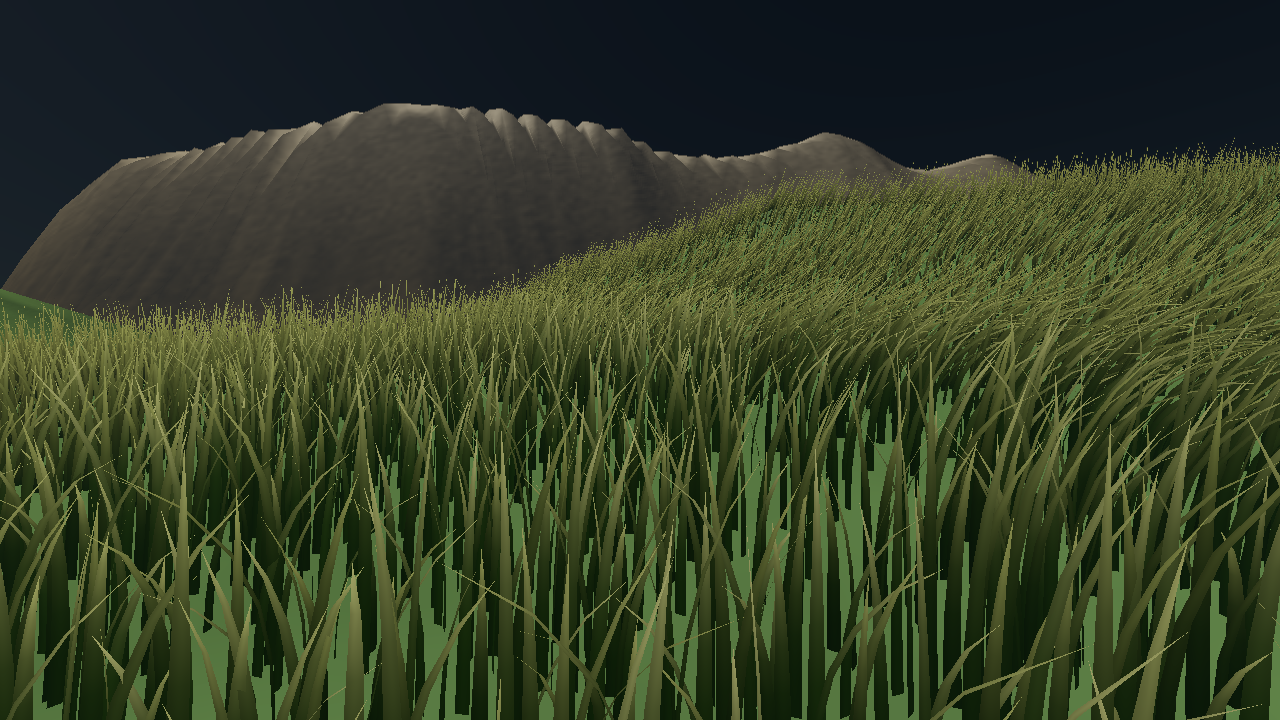
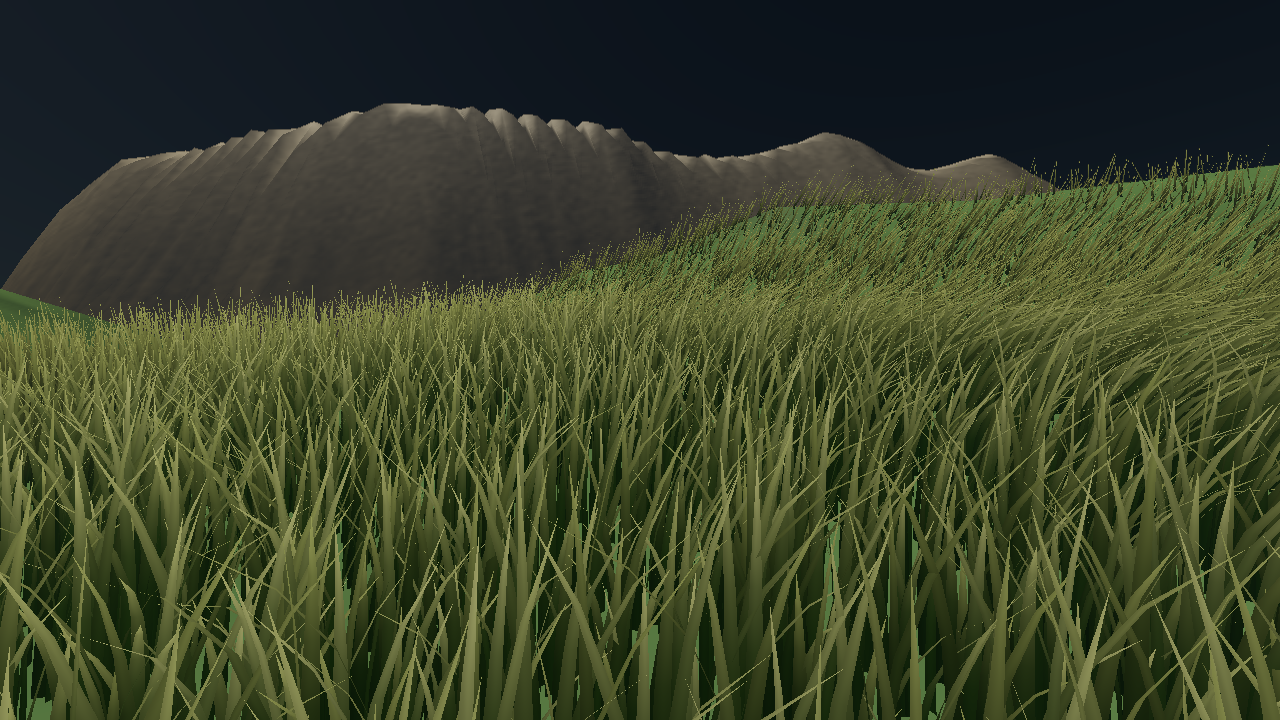
Concentrate foliage around the camera with Gaussian density

diff --git a/src/rendering/foliage/GrassPlacement.cpp b/src/rendering/foliage/GrassPlacement.cpp
@@ -30,8 +30,15 @@ std::vector<GrassBlade> placeGrass(const std::vector<float>& vertices,
     double highestGround=planet.terrain_landscape.maximumAbsoluteHeightMeters();
     for (const auto& noise:planet.surface_noise) highestGround+=noise.amplitude_m;
     if ((glm::length(eyeBody)-1)*metersPerRadius-highestGround>radius) return result;
+    // A three-sigma patch concentrates instances around the walker instead
+    // of spending the same density on barely visible distant grass. Integrate
+    // the truncated Gaussian to scale its peak to the instance budget.
+    const double sigma = settings.draw_distance_m / 3.0;
+    const double variance2 = 2.0 * sigma * sigma;
+    const double weightedArea = std::acos(-1.0) * variance2 *
+        (1.0 - std::exp(-radius * radius / variance2));
     const double density = std::min(settings.density_per_m2,
-        0.8 * settings.max_blades / (std::acos(-1.0) * radius * radius));
+        0.8 * settings.max_blades / weightedArea);
     result.reserve(settings.max_blades);
     const auto rockRange = planet.terrain_material.slopeMetricRange();
     std::uint32_t accepted = 0, reservoir = grassHash(settings.seed);
@@ -59,7 +66,9 @@ std::vector<GrassBlade> placeGrass(const std::vector<float>& vertices,
             const double a = std::sqrt(grassRandom(random)), b = grassRandom(random);
             const glm::dvec3 weights(1-a,a*(1-b),a*b);
             const glm::dvec3 root = p[0]*weights.x+p[1]*weights.y+p[2]*weights.z;
-            if (glm::length(root-eyeBody)*metersPerRadius > radius || glm::length(root) < 1e-9) continue;
+            const double distanceMeters = glm::length(root-eyeBody)*metersPerRadius;
+            if (distanceMeters > radius || glm::length(root) < 1e-9) continue;
+            if (grassRandom(random) >= std::exp(-distanceMeters*distanceMeters / variance2)) continue;
             const glm::dvec3 radial = glm::normalize(root);
             const auto n = glm::normalize(normal[0]*weights.x+normal[1]*weights.y+normal[2]*weights.z);
             const auto tint = color[0]*weights.x+color[1]*weights.y+color[2]*weights.z;

diff --git a/tests/foliage/test_grass_placement.cpp b/tests/foliage/test_grass_placement.cpp
@@ -52,6 +52,41 @@ TEST(GrassPlacement, RejectsWaterCliffsSnowDisabledAndDistantViews) {
     p.water.enabled=false; p.foliage.enabled=false;
     EXPECT_TRUE(rendering::placeGrass(patch(),indices,p,100,{0,0,1.02}).empty());
 }
+TEST(GrassPlacement, GaussianDensityFallsWithDistanceAndFollowsTheEye) {
+    auto p=planet();
+    p.foliage.max_blades=12000;
+    // Subdivide a wide planar patch so the per-triangle work cap does not
+    // limit the measured distribution. Three equal-area annuli distinguish
+    // Gaussian density from a uniform disk with only an outer cutoff.
+    std::vector<float> vertices;
+    std::vector<unsigned> triangles;
+    for (int y=-20;y<20;++y) for (int x=-20;x<20;++x) {
+        const auto base=static_cast<unsigned>(vertices.size()/9);
+        for (auto corner: {glm::dvec2(x,y),glm::dvec2(x+1,y),
+                           glm::dvec2(x+1,y+1),glm::dvec2(x,y+1)}) {
+            for (auto value: {float(corner.x/100),float(corner.y/100),1.0f,
+                             0.0f,0.0f,1.0f,1.0f,1.0f,1.0f}) vertices.push_back(value);
+        }
+        triangles.insert(triangles.end(),{base,base+1,base+2,base,base+2,base+3});
+    }
+    for (double x: {0.0,0.05}) {
+        const auto blades=rendering::placeGrass(vertices,triangles,p,100,{x,0,1.0});
+        ASSERT_GT(blades.size(),1000u);
+        ASSERT_LE(blades.size(),std::size_t(p.foliage.max_blades));
+        std::array<int,3> annuli{};
+        double meanX=0,meanY=0;
+        for (const auto& blade:blades) {
+            const double dx=(blade.root.x-x)*100,dy=blade.root.y*100;
+            const int bin=int((dx*dx+dy*dy)/100*3);
+            if (bin<3) ++annuli[bin];
+            meanX+=dx; meanY+=dy;
+        }
+        EXPECT_GT(annuli[0],3*annuli[1]);
+        EXPECT_GT(annuli[1],3*annuli[2]);
+        EXPECT_NEAR(meanX/blades.size(),0,0.3);
+        EXPECT_NEAR(meanY/blades.size(),0,0.3);
+    }
+}
 TEST(GrassPlacement, BothPolesUseTheSameBodyLocalPlacement) {
     const auto p=planet();
     const auto north=rendering::placeGrass(patch(),indices,p,100,{0,0,1.02});

diff --git a/docs/captures/GENERATION.md b/docs/captures/GENERATION.md
@@ -4,28 +4,28 @@
 
 All 16 README images were regenerated with the current renderer. Earlier capture dates and versions were not recorded.
 
-Base source revision: `d3cce71f0d26b96ebc95349751d95a4084a377cf` plus the working-tree changes identified by the source fingerprint.
+Base source revision: `688039a5fc68b71dd7e3a9ec2e8ae8fda5f829c6` plus the working-tree changes identified by the source fingerprint.
 Build: RelWithDebInfo. Display: Xvfb. OpenGL: Mesa llvmpipe (software rendering).
 The performance panel reports this capture environment, not hardware GPU performance.
 
 | Image | Version | Last generated (UTC) |
 | --- | --- | --- |
-| [solar-view.png](../screenshots/solar-view.png) | 0.0.1 | 2026-09-29T15:35:23+00:00 |
-| [surface-view.png](../screenshots/surface-view.png) | 0.0.1 | 2026-09-29T15:35:28+00:00 |
-| [planet-orbit.png](../screenshots/planet-orbit.png) | 0.0.1 | 2026-09-29T15:35:31+00:00 |
-| [moonlit-night.png](../screenshots/moonlit-night.png) | 0.0.1 | 2026-09-29T15:35:32+00:00 |
-| [moonless-night.png](../screenshots/moonless-night.png) | 0.0.1 | 2026-09-29T15:35:33+00:00 |
-| [refraction-extreme-on.png](../screenshots/refraction-extreme-on.png) | 0.0.1 | 2026-09-29T15:35:40+00:00 |
-| [refraction-extreme-off.png](../screenshots/refraction-extreme-off.png) | 0.0.1 | 2026-09-29T15:35:43+00:00 |
-| [terrain-detail.png](../screenshots/terrain-detail.png) | 0.0.1 | 2026-09-29T15:35:47+00:00 |
-| [grass-detail.png](../screenshots/grass-detail.png) | 0.0.1 | 2026-09-29T15:35:50+00:00 |
-| [performance-overlay.png](../screenshots/performance-overlay.png) | 0.0.1 | 2026-09-29T15:36:15+00:00 |
-| [atmosphere-day.png](../screenshots/atmosphere-day.png) | 0.0.1 | 2026-09-29T15:36:18+00:00 |
-| [atmosphere-sunset.png](../screenshots/atmosphere-sunset.png) | 0.0.1 | 2026-09-29T15:36:21+00:00 |
-| [atmosphere-mist.png](../screenshots/atmosphere-mist.png) | 0.0.1 | 2026-09-29T15:36:23+00:00 |
-| [atmosphere-dust.png](../screenshots/atmosphere-dust.png) | 0.0.1 | 2026-09-29T15:36:26+00:00 |
-| [twilight.png](../screenshots/twilight.png) | 0.0.1 | 2026-09-29T15:36:28+00:00 |
-| [terrain-shadows.png](../screenshots/terrain-shadows.png) | 0.0.1 | 2026-09-29T15:36:29+00:00 |
+| [solar-view.png](../screenshots/solar-view.png) | 0.0.1 | 2026-09-29T15:50:57+00:00 |
+| [surface-view.png](../screenshots/surface-view.png) | 0.0.1 | 2026-09-29T15:50:59+00:00 |
+| [planet-orbit.png](../screenshots/planet-orbit.png) | 0.0.1 | 2026-09-29T15:51:01+00:00 |
+| [moonlit-night.png](../screenshots/moonlit-night.png) | 0.0.1 | 2026-09-29T15:51:02+00:00 |
+| [moonless-night.png](../screenshots/moonless-night.png) | 0.0.1 | 2026-09-29T15:51:03+00:00 |
+| [refraction-extreme-on.png](../screenshots/refraction-extreme-on.png) | 0.0.1 | 2026-09-29T15:51:07+00:00 |
+| [refraction-extreme-off.png](../screenshots/refraction-extreme-off.png) | 0.0.1 | 2026-09-29T15:51:09+00:00 |
+| [terrain-detail.png](../screenshots/terrain-detail.png) | 0.0.1 | 2026-09-29T15:51:11+00:00 |
+| [grass-detail.png](../screenshots/grass-detail.png) | 0.0.1 | 2026-09-29T15:51:14+00:00 |
+| [performance-overlay.png](../screenshots/performance-overlay.png) | 0.0.1 | 2026-09-29T15:51:47+00:00 |
+| [atmosphere-day.png](../screenshots/atmosphere-day.png) | 0.0.1 | 2026-09-29T15:51:51+00:00 |
+| [atmosphere-sunset.png](../screenshots/atmosphere-sunset.png) | 0.0.1 | 2026-09-29T15:51:55+00:00 |
+| [atmosphere-mist.png](../screenshots/atmosphere-mist.png) | 0.0.1 | 2026-09-29T15:51:59+00:00 |
+| [atmosphere-dust.png](../screenshots/atmosphere-dust.png) | 0.0.1 | 2026-09-29T15:52:01+00:00 |
+| [twilight.png](../screenshots/twilight.png) | 0.0.1 | 2026-09-29T15:52:04+00:00 |
+| [terrain-shadows.png](../screenshots/terrain-shadows.png) | 0.0.1 | 2026-09-29T15:52:04+00:00 |
 
 Exact commands, image SHA-256 hashes and renderer details are in [generation.json](generation.json).
 Available [replay sidecars](replay/) preserve resolved scenes and cameras.

diff --git a/todo.md b/todo.md
@@ -21,7 +21,7 @@ document the progress and add comments such that when interrupted you can contin
 |Keep the water reflective and smooth. Make the gradient where grass becomes rock adjustable and keep grass longer before setting cliff. |t| Per-planet terrain_material slope range added (35–55° defaults), shared by gray-rock shading and broad darkening. Config/CPU/GPU regressions, smooth water reflection check, all 39 CTest tests and refreshed 15-image gallery/hash checks passed. |
 |add foliage like the grass in the quickgrass demo (copy it as close as possible) |t| SimonDev Quick_Grass port implemented with instanced curved blades, distance LOD, wind, bright tips, slope/water exclusion, terrain shadows and water reflections. MIT attribution preserved. All 41 CTest tests and refreshed 16-image gallery/hash checks passed on the current scene settings. |
 |Compile time has become pretty long, lets do a stabilisation commit where we try to clean up unnecessary header includes, and increase linking instead of compiling huge files new. |t| Config parsing, terrain generation, mesh/shader and foliage implementations moved into three compiled libraries; JSON removed from value-type headers. All 41 tests and 12 independent-header checks passed; grass replay byte-identical. Terrain implementation rebuild compiles one object and relinks consumers in 4.32 s. |
-|Spawn the Foliage in a gaussian distribution around the current position, such that at the current position there are most and far away only view. If its coputationally too complex add 5 distance zones.|||
+|Spawn the Foliage in a gaussian distribution around the current position, such that at the current position there are most and far away only view. If its coputationally too complex add 5 distance zones.|t| Gaussian placement with sigma = draw distance / 3 and integrated budget scaling implemented. Equal-area radial density, moving-camera and pole tests pass; all 41 CTest checks, exact replay and refreshed 16-image gallery/hash checks passed. |
 |as visible in image USER_IO/user_artifacts/image copy.png the water boarders are still pretty rough, the sand applies to whole (huge) triangles and the grass doesn't qite reach the water. Lets think of ways to keep it performant for large scale but have accurate, fine triangular resolution when we get close to the water.|||
 |When the Camera gets close to a steep mountain, its possible to look inside the planet, lets fix that |||
 
@@ -56,6 +56,12 @@ if environmental changes are needed inside the container, let the user know by a
 
 ## Progress checkpoint — 2026-09-29
 
+- Gaussian foliage density complete. Peak requested density is normalized
+  against the integrated Gaussian to preserve the hard instance budget.
+  Seeded candidate roots remain stable when moving the patch. Radial annuli,
+  moving center, pole symmetry, full 41-test suite and exact paused replay
+  passed. All 16 gallery images regenerated and hashes checked; grass preview
+  inspected (921,598 non-background pixels, bounds (0,0)–(1279,719)).
 - Compile-time stabilization complete: substantial implementations now have
   `.cpp` files and shared static libraries. All 41 CTest entries passed under
   Xvfb with two jobs; real X11 input tests now run serially to avoid focus

diff --git a/README.md b/README.md
@@ -833,7 +833,12 @@ budget. The defaults shown above remain the smaller reference preset.
 The random height multiplier is 0.75–1.5. Supported ranges are
 0–2 wind strength, 0.05–3 m height, 0.005–0.3 m width, 5–100 m draw distance,
 positive density up to 4096 blades/m², and 1–250,000 blades per planet.
-Density is reduced when necessary to fit the instance budget. Each blade uses
+Density peaks at the camera and follows a Gaussian with standard deviation
+`draw_distance_m / 3`: about 61% of peak at one third of the distance, 14%
+at two thirds, and 1% at the edge. `density_per_m2` sets the requested peak;
+the integrated distribution is scaled down when necessary to fit the instance
+budget. A cached patch follows walking, rebuilding after 15% of the draw
+distance; overlapping candidates keep their seeded positions. Each blade uses
 one instance; the terrain triangle budget is unchanged. Height fades over the
 last quarter of the draw distance. The default distance is shorter than the
 demo's 100 m to bound work on weaker hardware.
